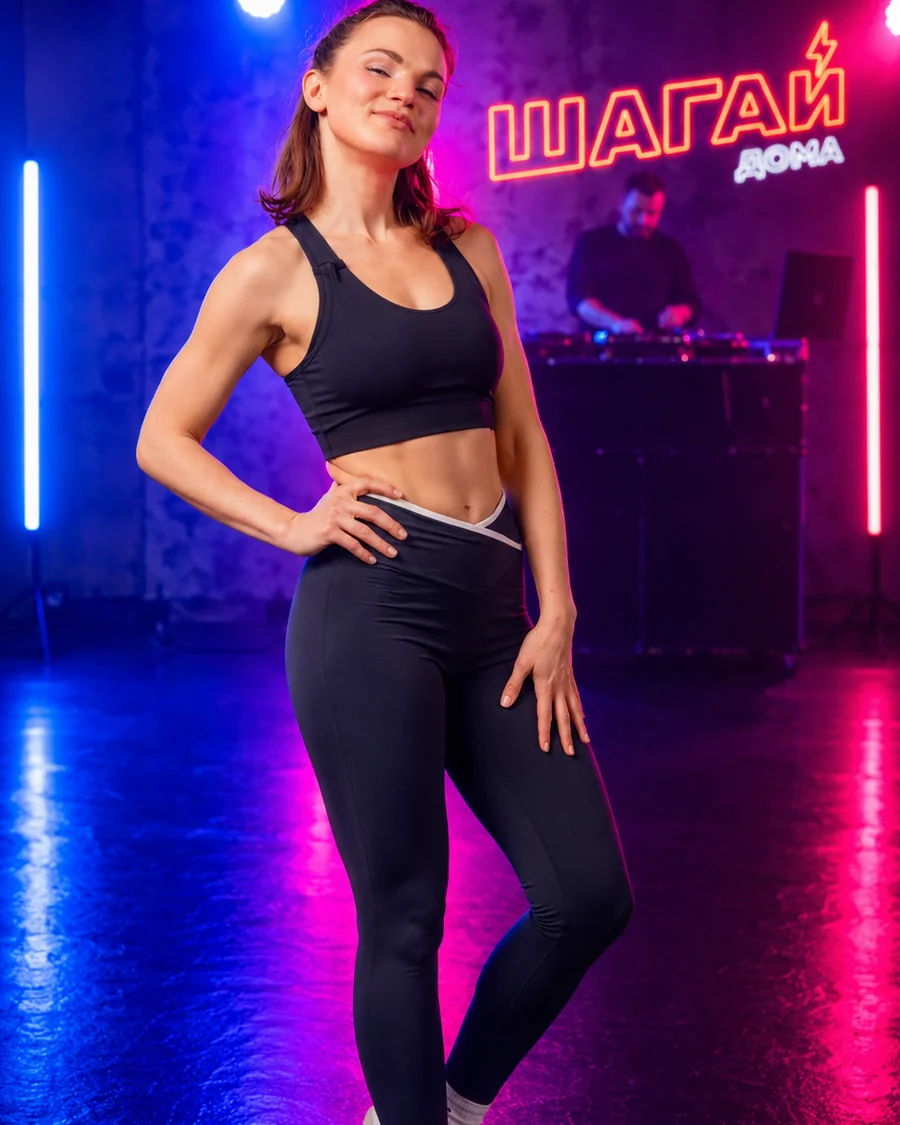
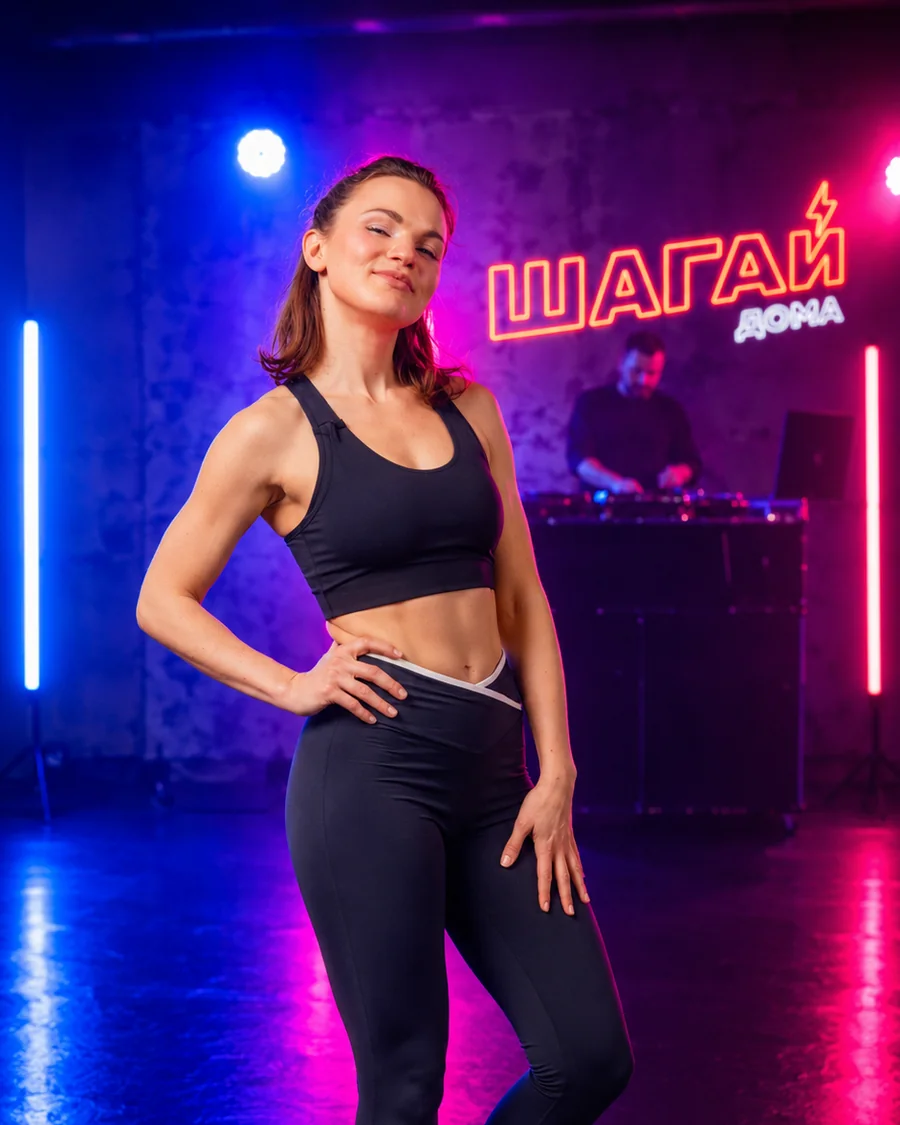
fix: перекроп фото тренеров — приоритет верх (лицо в кадре)
- Оригиналы 941×1672 (очень высокий portrait), раньше брал top=10% — это срезало голову Димы и Маши
- Теперь crop с top=0 → сохраняем верх полностью (включая лицо), отсекаем низ
- CSS object-position: center top — при ремасштабе в карточке голова не уходит вверх

Cache-bust: disco-R → disco-S

diff --git a/index.html b/index.html
@@ -20,7 +20,7 @@
   <link rel="preconnect" href="https://fonts.gstatic.com" crossorigin />
   <link href="https://fonts.googleapis.com/css2?family=Unbounded:wght@500;600&family=Inter:wght@400;500;600&display=swap&subset=latin,cyrillic" rel="stylesheet" />
 
-  <link rel="stylesheet" href="styles.css?v=disco-R" />
+  <link rel="stylesheet" href="styles.css?v=disco-S" />
 </head>
 <body>
 
@@ -557,6 +557,6 @@
 <!-- Back to top -->
 <button class="back-to-top" id="backToTop" aria-label="Наверх">↑</button>
 
-<script src="script.js?v=disco-R"></script>
+<script src="script.js?v=disco-S"></script>
 </body>
 </html>

diff --git a/styles.css b/styles.css
@@ -3326,6 +3326,14 @@ section[id],
   background: linear-gradient(135deg, #E5DDF1 0%, #C9B8E0 100%);
   background-size: cover;
   background-position: center;
+  overflow: hidden;
+}
+.coach-card__photo img {
+  width: 100%;
+  height: 100%;
+  object-fit: cover;
+  object-position: center top;
+  display: block;
 }
 .coach-card__photo--placeholder {
   display: flex;
